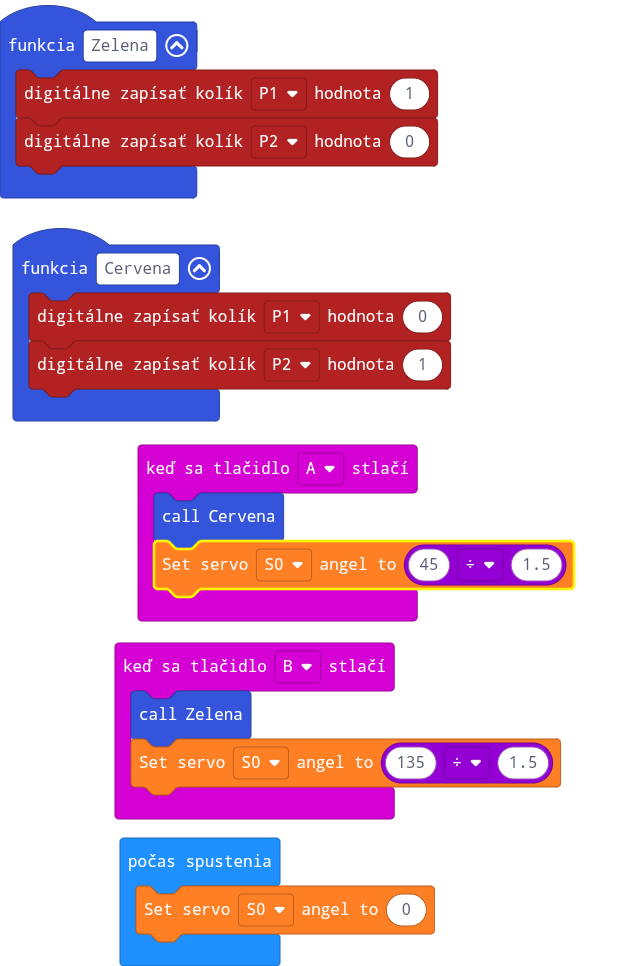
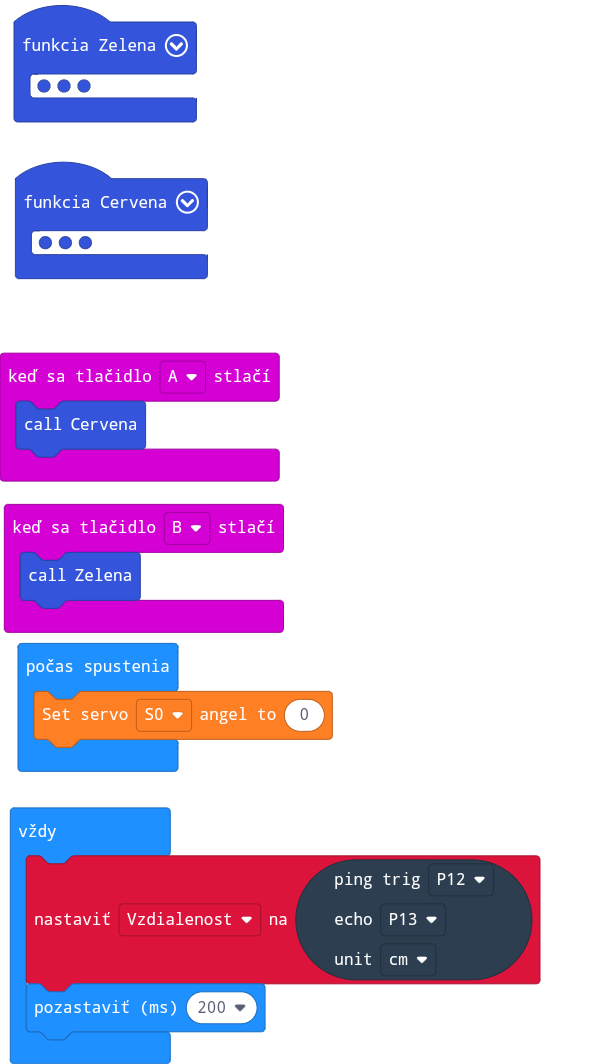
Update pxt.json, main.blocks, main.ts

diff --git a/main.ts b/main.ts
@@ -1,17 +1,26 @@
 input.onButtonPressed(Button.A, function () {
     Cervena()
-    wuKong.setServoAngel(wuKong.ServoList.S0, 45 / 1.5)
 })
 function Zelena () {
     pins.digitalWritePin(DigitalPin.P1, 1)
     pins.digitalWritePin(DigitalPin.P2, 0)
+    wuKong.setServoAngel(wuKong.ServoList.S0, 135 / 1.5)
 }
 input.onButtonPressed(Button.B, function () {
     Zelena()
-    wuKong.setServoAngel(wuKong.ServoList.S0, 135 / 1.5)
 })
 function Cervena () {
     pins.digitalWritePin(DigitalPin.P1, 0)
     pins.digitalWritePin(DigitalPin.P2, 1)
+    wuKong.setServoAngel(wuKong.ServoList.S0, 45 / 1.5)
 }
+let Vzdialenost = 0
 wuKong.setServoAngel(wuKong.ServoList.S0, 0)
+basic.forever(function () {
+    Vzdialenost = sonar.ping(
+    DigitalPin.P12,
+    DigitalPin.P13,
+    PingUnit.Centimeters
+    )
+    basic.pause(200)
+})
